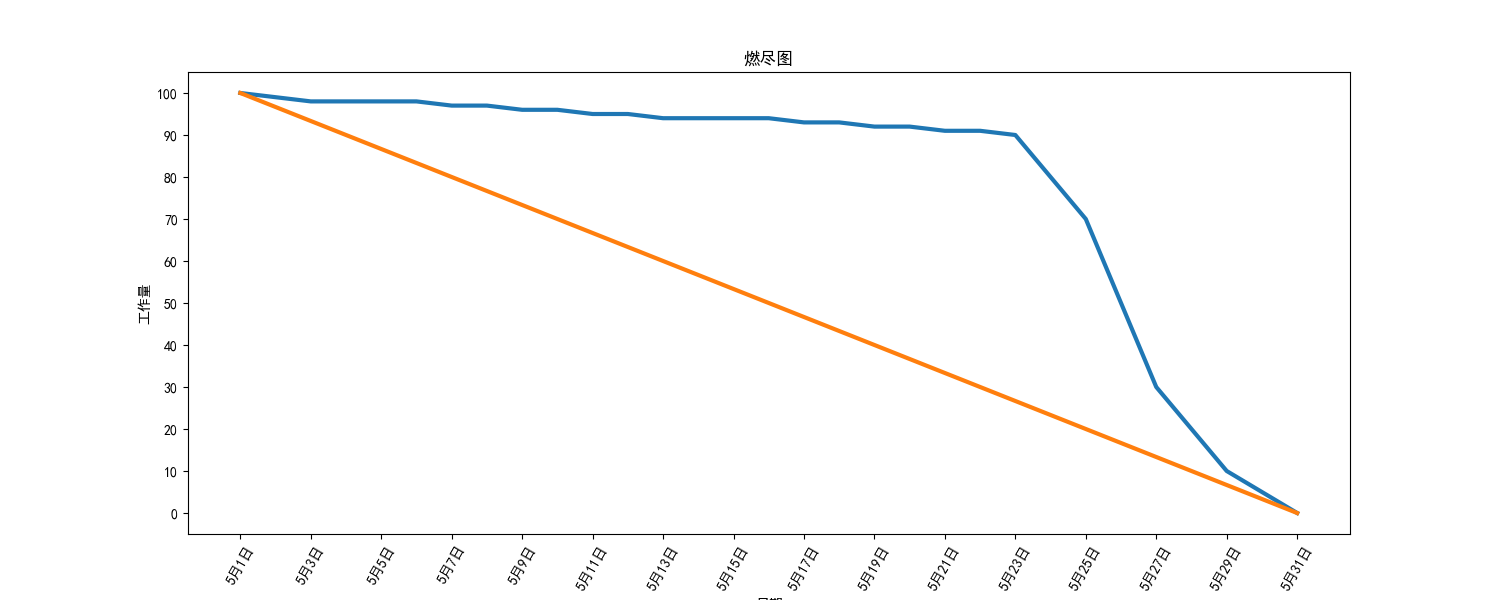
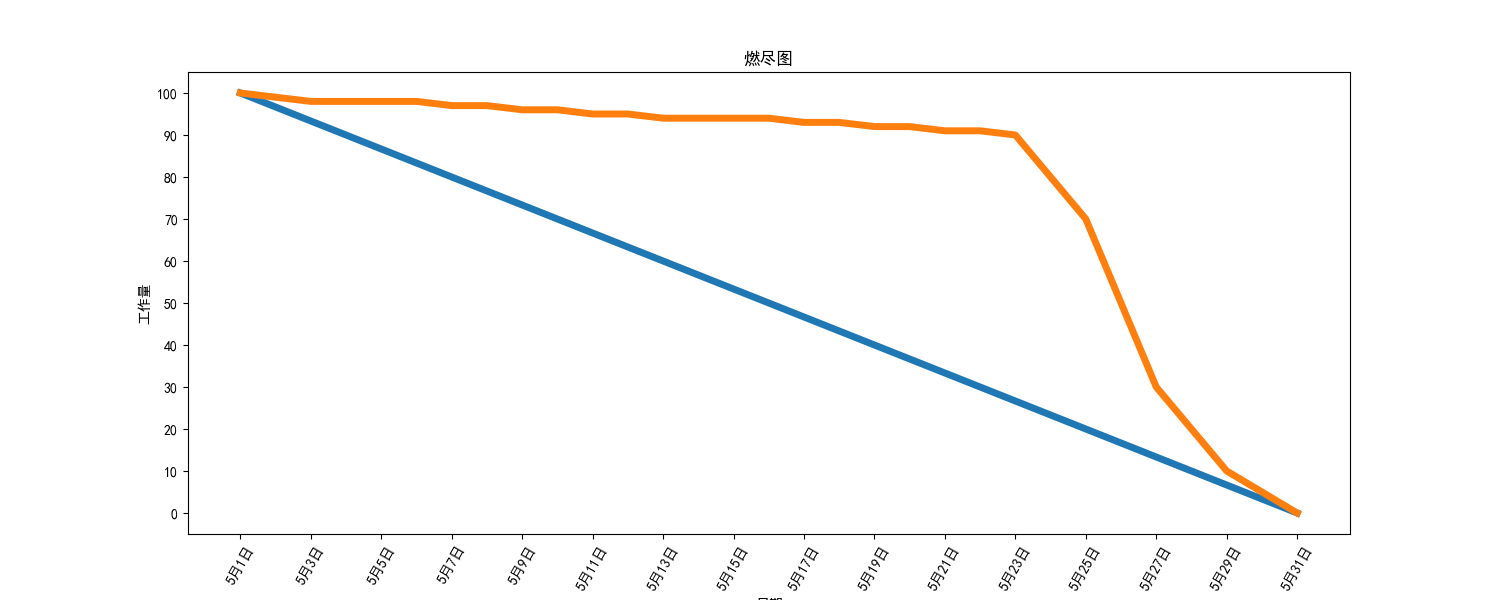
重绘图案

diff --git a/src/燃尽图.py b/src/燃尽图.py
@@ -26,8 +26,8 @@ plt.title('燃尽图')
 plt.xlabel('日期')
 plt.ylabel('工作量')
 
-plt.plot(x, y2, linewidth=3)
-plt.plot(x, y1, linewidth=3)
+plt.plot(x, y1, linewidth=5)
+plt.plot(x, y2, linewidth=5)
 
 plt.yticks(y_ticks)
 plt.xticks(x_ticks, rotation=60)
